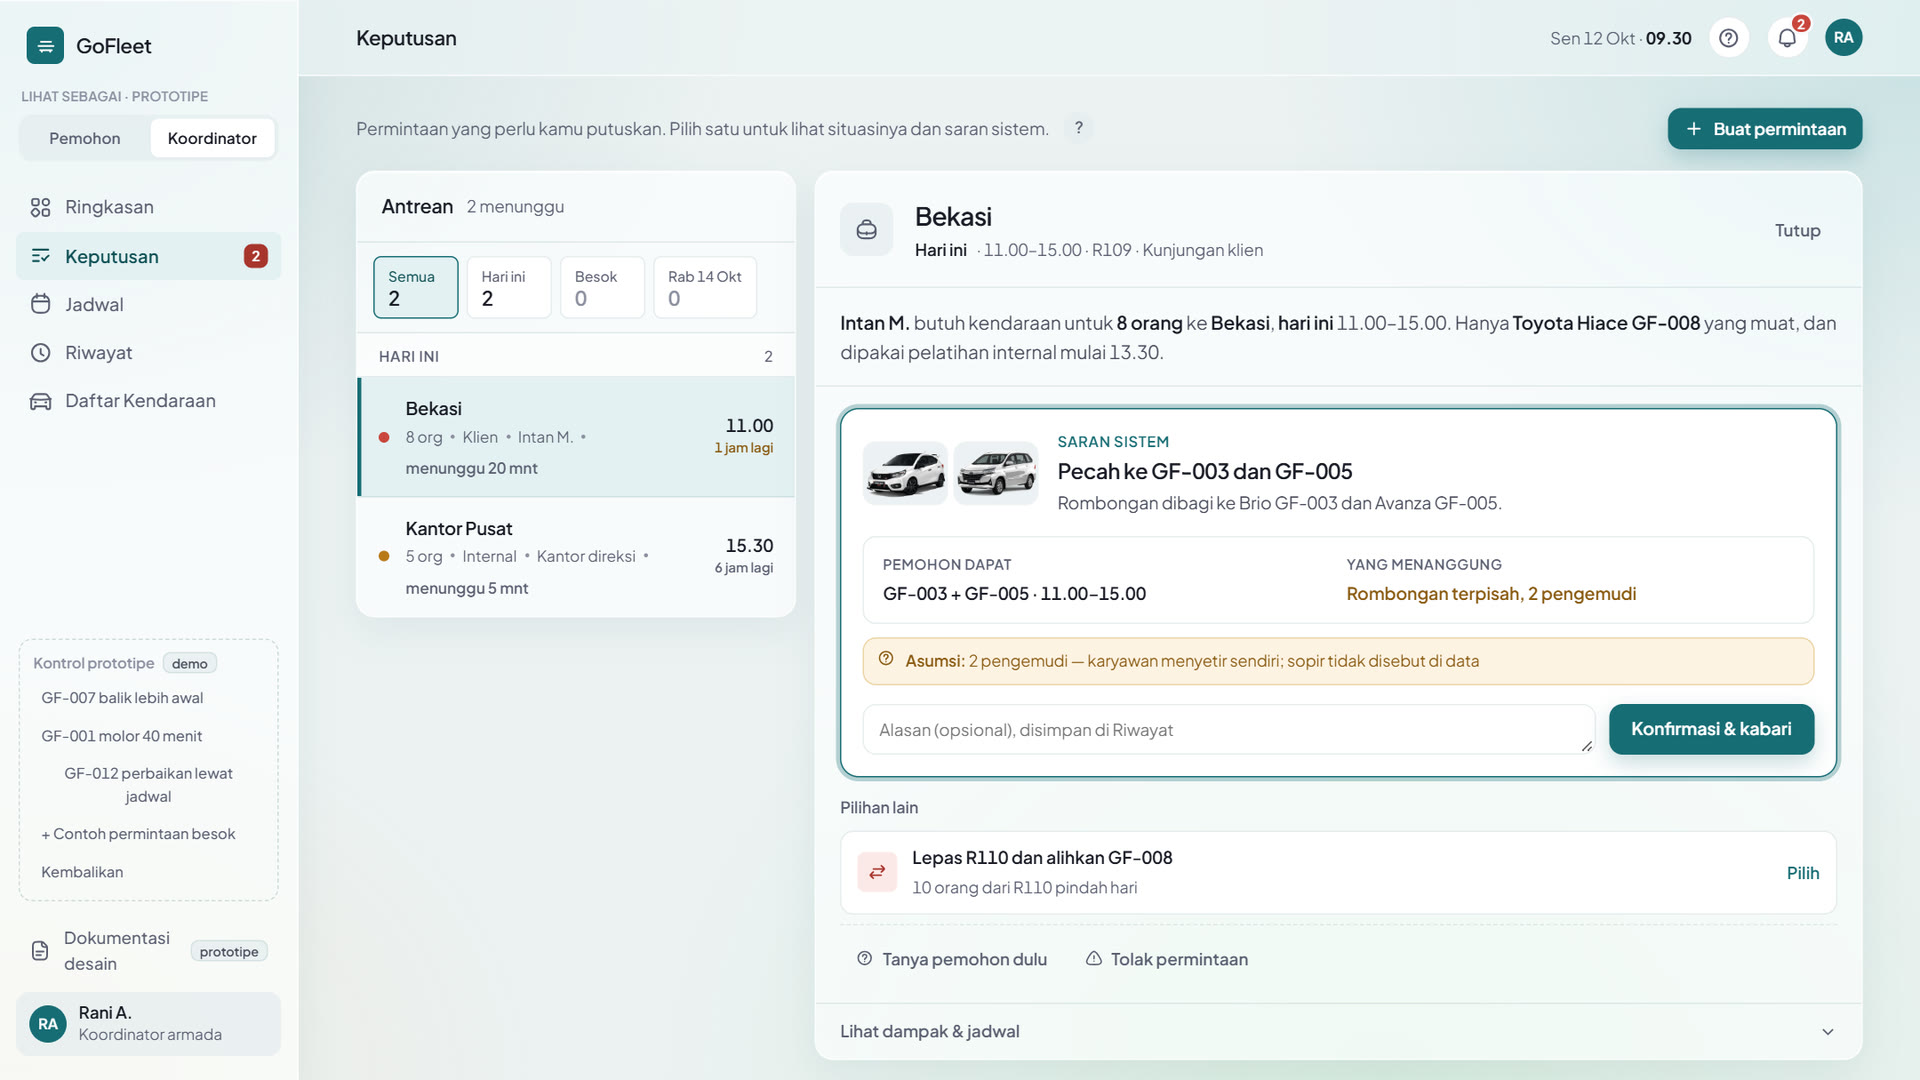
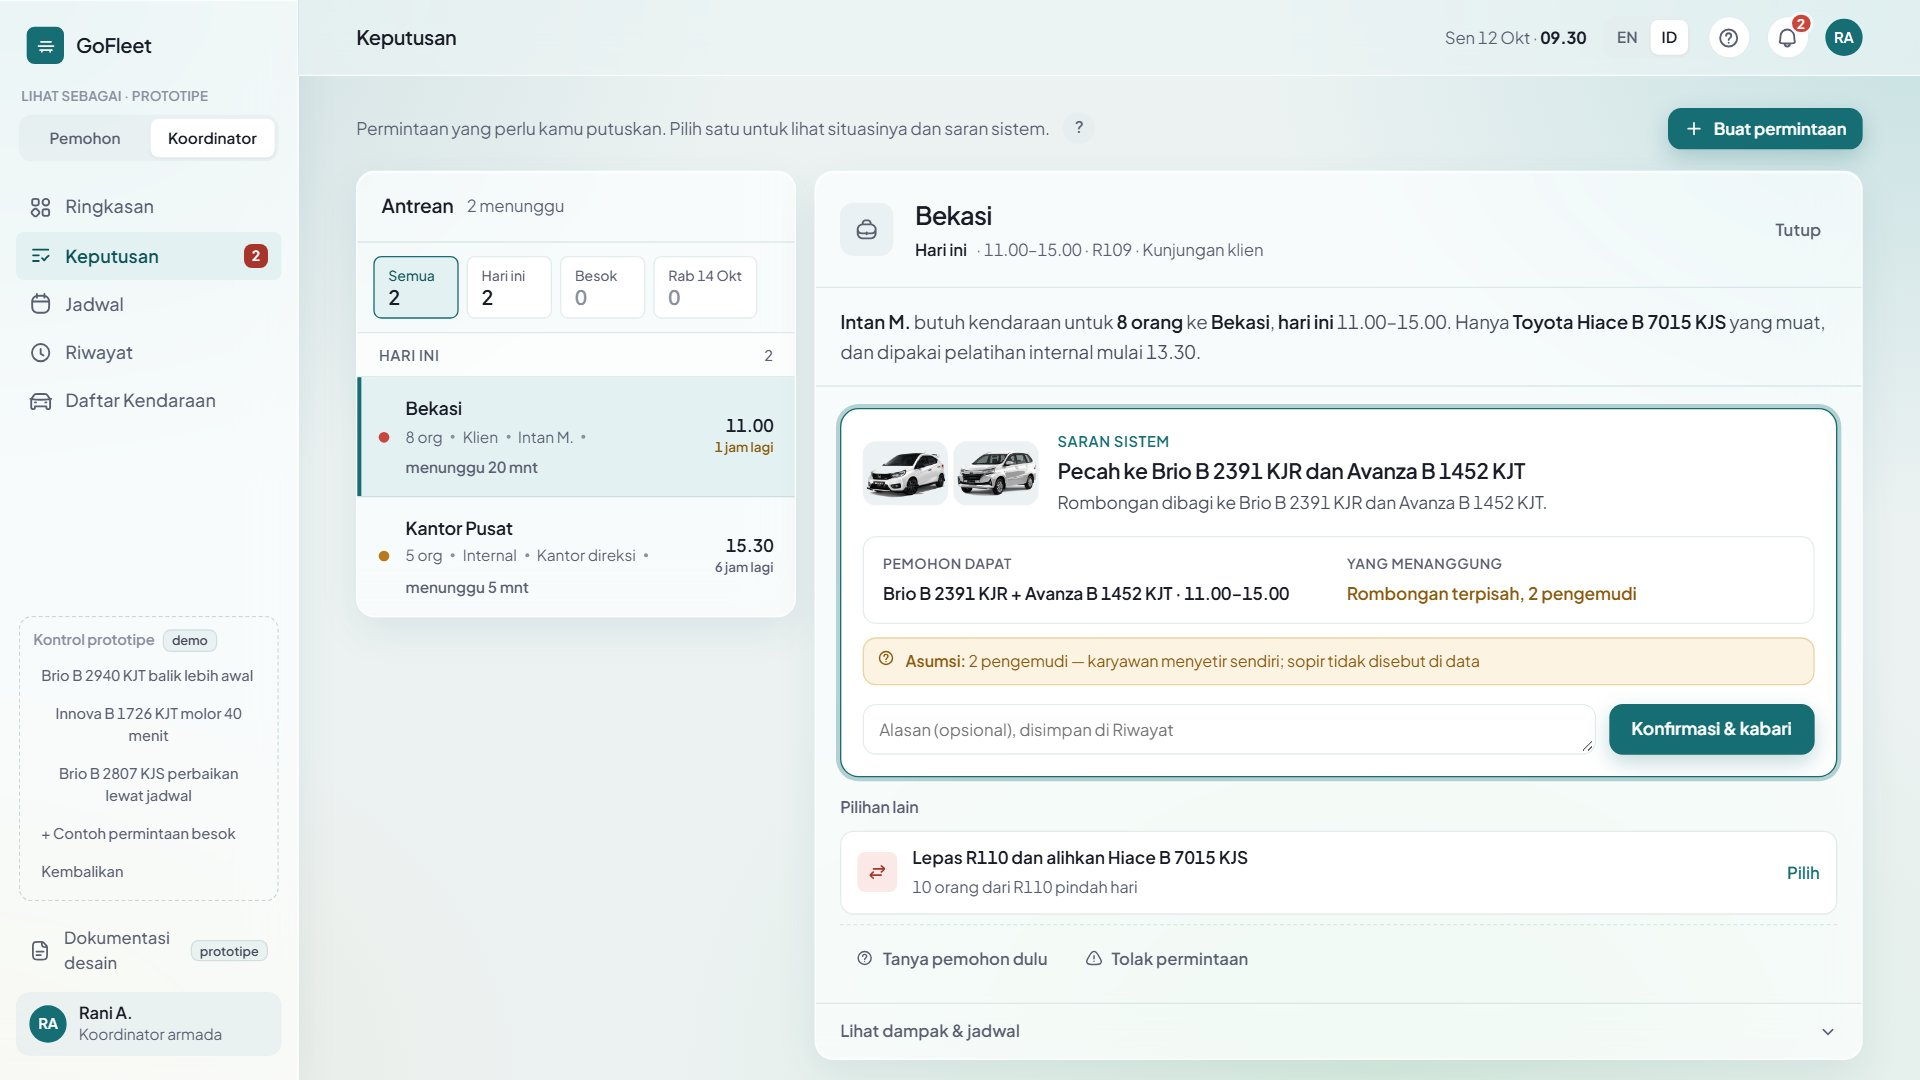
GoFleet: screenshot dan teks pakai nama model + plat
Tujuh screenshot diambil ulang dari prototipe terbaru dengan state yang sama
(1920x1080, UI bahasa Indonesia): ringkasan, keputusan, jadwal, riwayat,
daftar kendaraan, perjalanan saya, dan langkah 3 form. Kartu R103 kini
menyebut Avanza B 1834 KJT, bukan GF-002.

diff --git a/cases-data.js b/cases-data.js
@@ -128,7 +128,7 @@ const CASES = {
       { type: 'cards', label: 'Testing the idea', title: 'I ran the three requests stuck at 09.30 through each approach.', cols: 3, tone: 'soft',
         body: 'Approach B sorted them the way a good coordinator would: one already had a car and should never have waited, the other two genuinely needed judgment. Self-service would have handed the Hiace to R110 simply because it booked two days earlier, even though R109 was a client visit.',
         items: [
-          { tag: 'Auto-confirmed', t: 'R103 · client visit, 6 people', d: '10.00–13.00. Avanza GF-002 was free and fits the group.' },
+          { tag: 'Auto-confirmed', t: 'R103 · client visit, 6 people', d: '10.00–13.00. Avanza B 1834 KJT was free and fits the group.' },
           { tag: 'Needs coordinator', t: 'R109 · client visit, 8 people', d: 'The only Hiace is booked for an internal training from 13.30.' },
           { tag: 'Needs coordinator', t: 'R112 · management meeting', d: 'The requester added a note: “director level”.' },
         ] },
